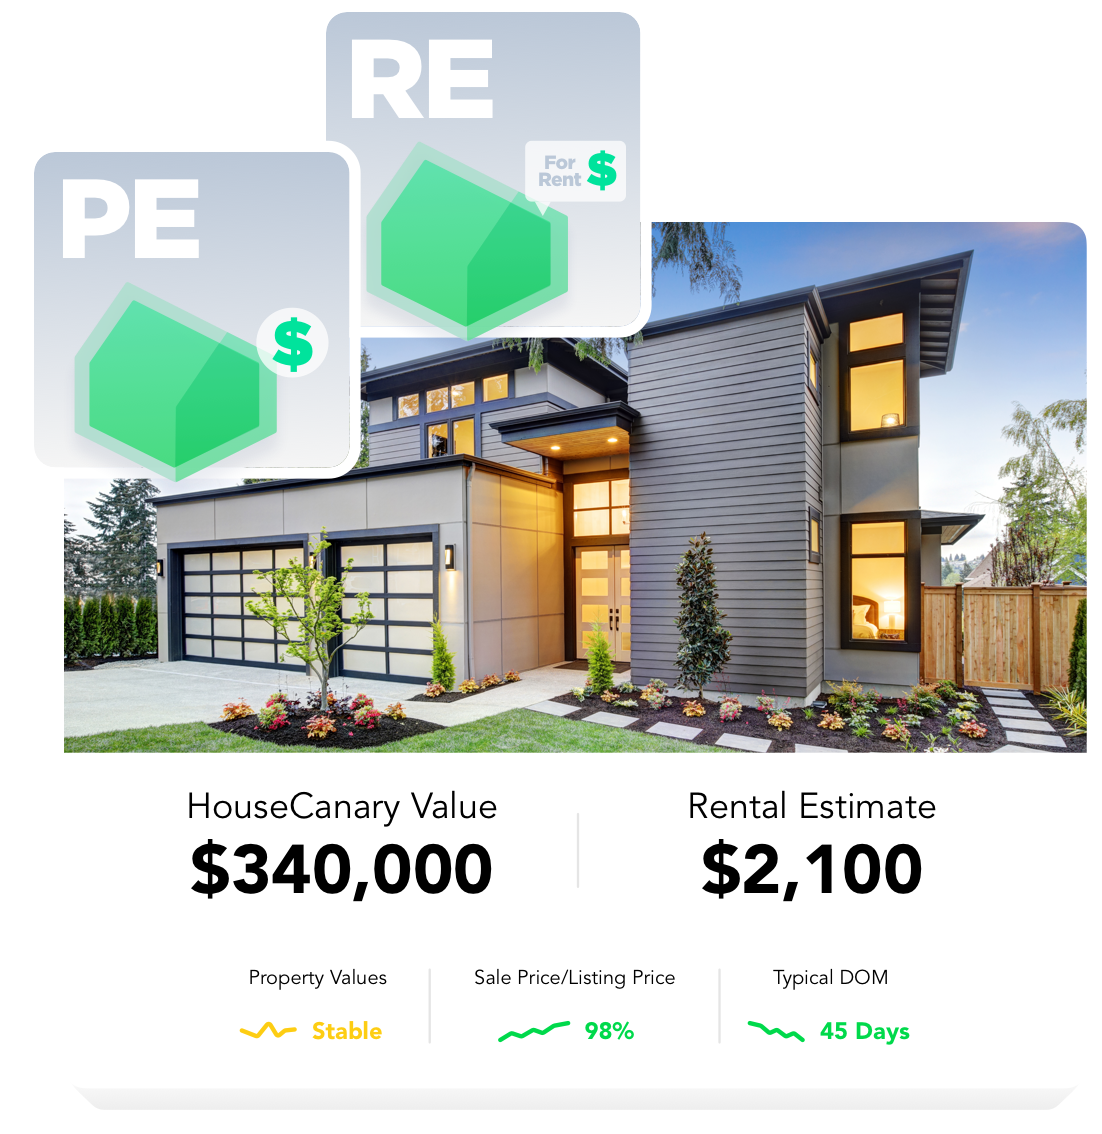
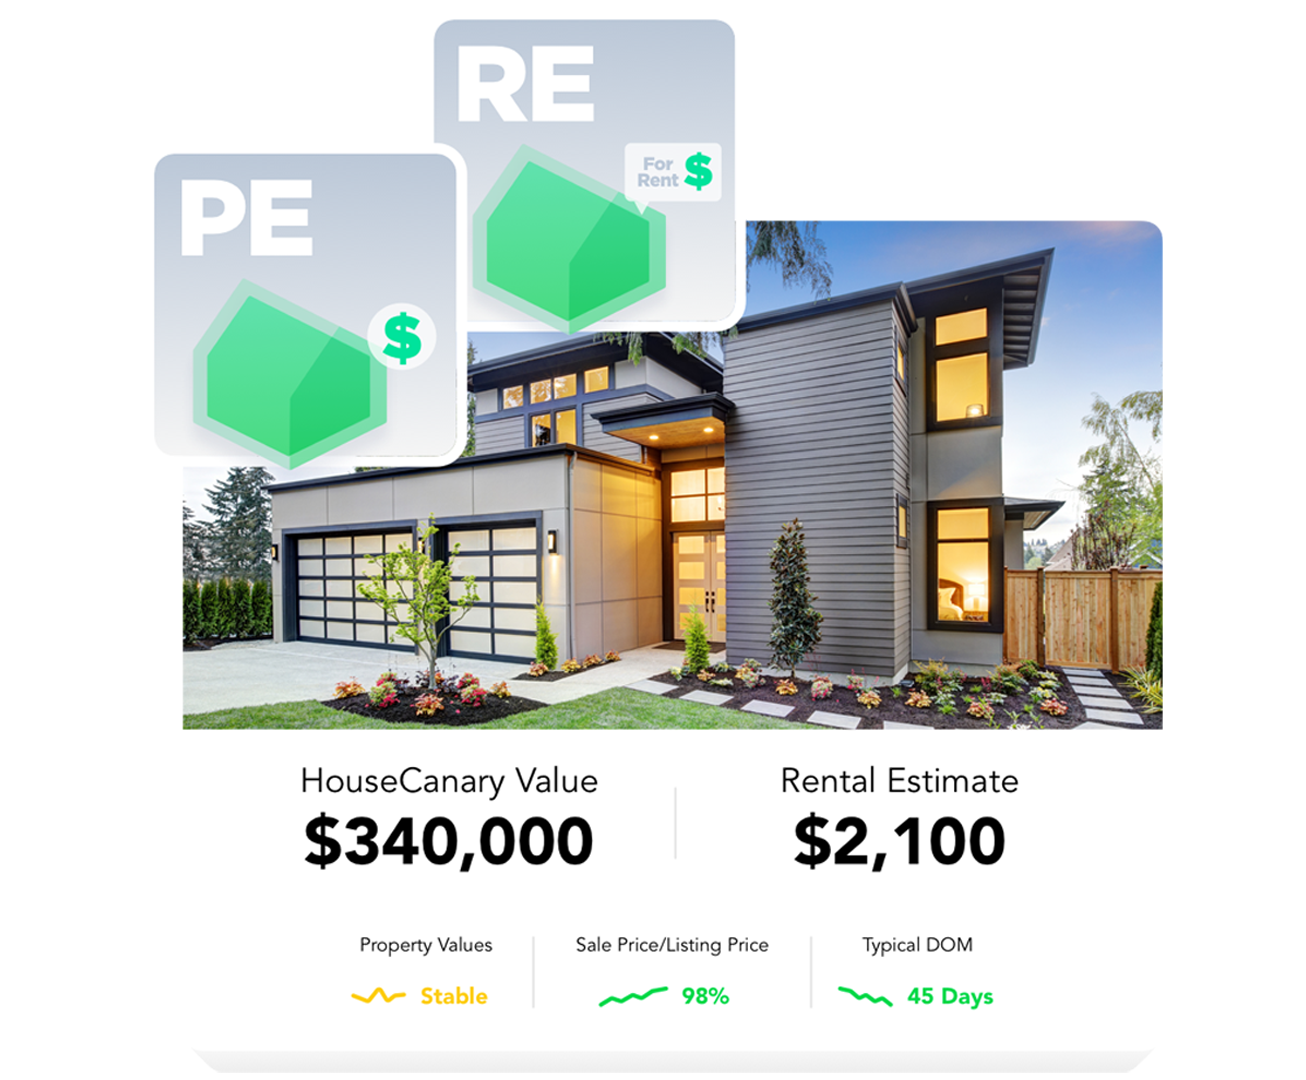
push

diff --git a/index.html b/index.html
@@ -249,7 +249,7 @@
 
         <div class="row content">
           <div class="col-md-5" data-aos="fade-right" data-aos-delay="100">
-            <img src="assets/img/rent_valuation.jpg" class="img-fluid" alt="">
+            <img src="assets/img/rent_valuation.png" class="img-fluid" alt="">
           </div>
           <div class="col-md-7 pt-4" data-aos="fade-left" data-aos-delay="100">
             <h3>Property and rent valuation</h3>
